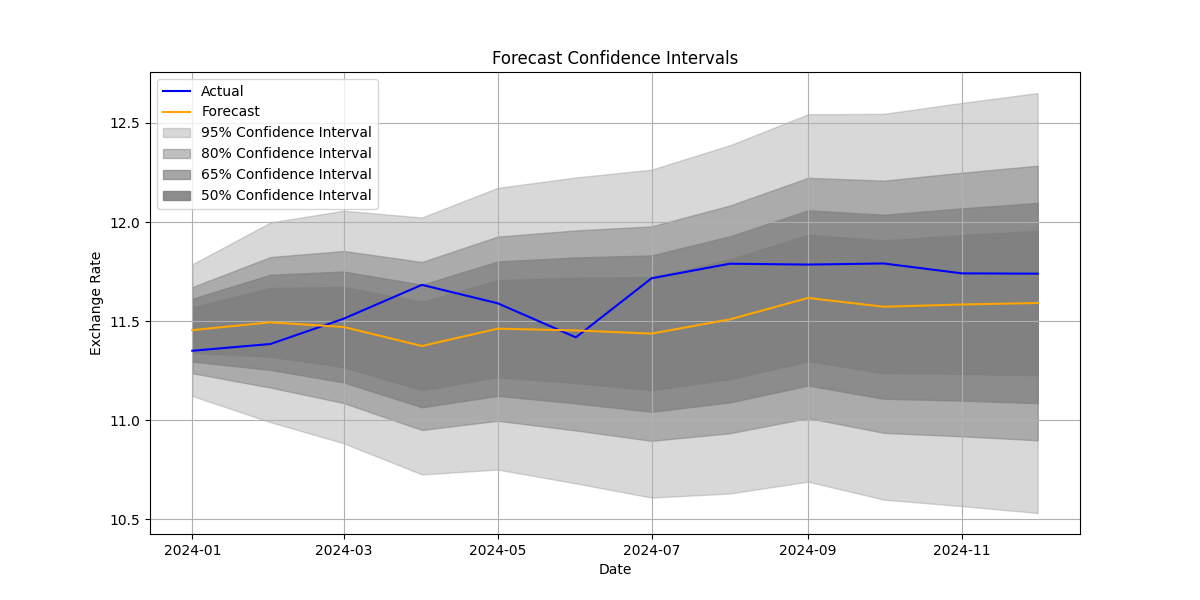
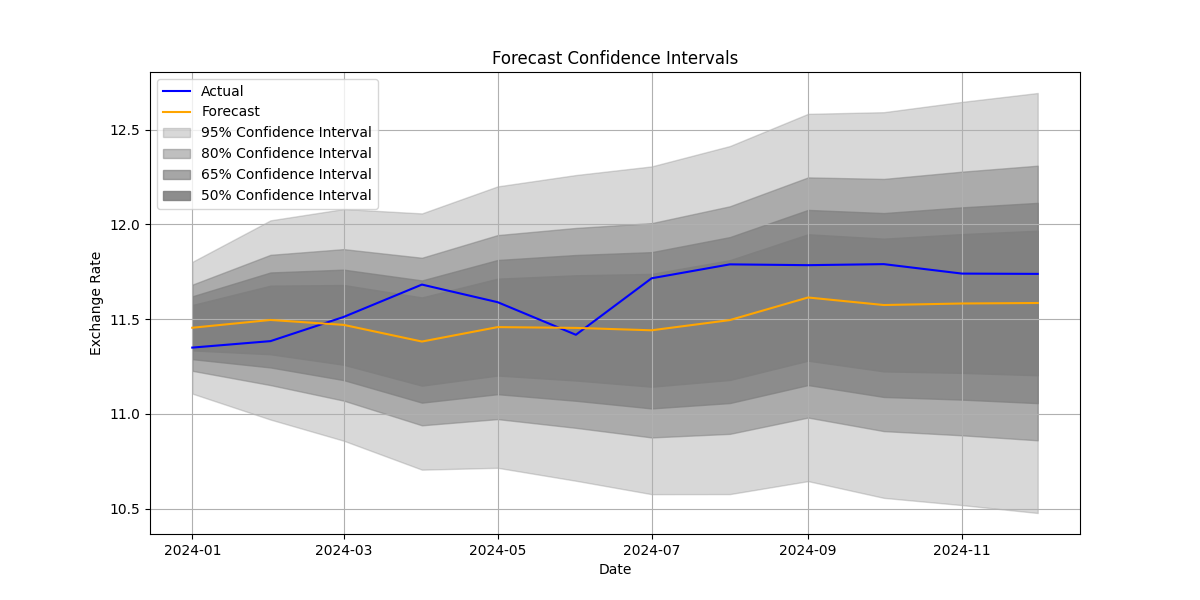
order and differencing determination added

diff --git a/arima_model.py b/arima_model.py
@@ -2,13 +2,13 @@ import pandas as pd
 import matplotlib.pyplot as plt
 from scipy import stats
 from statsmodels.tsa.arima.model import ARIMA
+from statsmodels.graphics.tsaplots import plot_acf, plot_pacf
 from statsmodels.tsa.stattools import adfuller
-from statsmodels.stats.diagnostic import acorr_ljungbox
+from statsmodels.stats.diagnostic import acorr_ljungbox, het_breuschpagan
 
 from historical_data import get_historical_data
 
 # Set parameters
-p, d, q = 3, 1, 1  # Define the order of the ARIMA model (p, d, q)
 rate = 'EUR'
 training_start = pd.Timestamp('2018-01-01')
 training_end = pd.Timestamp('2023-12-31')
@@ -22,14 +22,61 @@ df.to_csv("data\\input_data.csv")
 training_df = df.loc[:training_end]
 test_df = df.loc[training_end:]
 
+
+# Perform Differencing to estimate d
+fig, (ax1, ax2) = plt.subplots(2, figsize=(8, 4), sharex=True)
+ax1.plot(training_df['exchange_rate'].diff(), color='orange')
+ax1.set_title('1st Order Differencing')
+ax1.axes.xaxis.set_visible(False)
+ax2.plot(training_df['exchange_rate'].diff().diff(), color='green')
+ax2.set_title('2nd Order Differencing')
+plt.tight_layout()
+plt.savefig(f"results\\differencing.png")
+plt.show()
+d = 1
+
+# Estimate Best Values for p and q based on AIC, BIC, and HQIC
+lags = 12
+diff_series = training_df['exchange_rate'].diff()
+fig, axes = plt.subplots(1, 2, figsize=(8, 4))
+plot_acf(diff_series, lags=lags, ax=axes[0])
+axes[0].set_title('ACF of First Order Differenced Series')
+plot_pacf(diff_series, lags=lags, ax=axes[1])
+axes[1].set_title('PACF of First Order Differenced Series')
+plt.tight_layout()
+plt.savefig(f"results\\acp_pacf.png")
+plt.show()
+
+order = 3
+results = []
+for p in range(order):
+    for q in range(order):
+        model = ARIMA(training_df['exchange_rate'], exog=training_df.drop(columns=['exchange_rate']), order=(p, d, q))
+        result = model.fit()
+        results.append({
+               'p': p,
+               'd': d,
+               'q': q,
+               'AIC': result.aic,
+               'BIC': result.bic,
+               'HQIC': result.hqic
+           })
+results_df = pd.DataFrame(results)
+output_file.write("Estimate Best Values for p and q\n")
+output_file.write(str(results_df))
+output_file.write(f"\nBest model based on AIC:\n{results_df.loc[results_df['AIC'].idxmin()]}")
+output_file.write(f"\nBest model based on BIC:\n{results_df.loc[results_df['BIC'].idxmin()]}")
+output_file.write(f"\nBest model based on HQIC:\n{results_df.loc[results_df['HQIC'].idxmin()]}")
+p, q = 2, 0
+
 # Fit an ARIMA model
 model = ARIMA(training_df['exchange_rate'], exog=training_df.drop(columns=['exchange_rate']), order=(p, d, q))
 model_fit = model.fit()
-output_file.write(str(model_fit.summary()))
+output_file.write('\n'+str(model_fit.summary()))
 
 # Ljung-Box test
 residuals = model_fit.resid
-ljung_box_results = acorr_ljungbox(residuals, lags=[10], return_df=True)
+ljung_box_results = acorr_ljungbox(residuals, lags=[12], return_df=True)
 output_file.write("\nLjung-Box Test Results:")
 output_file.write(str(ljung_box_results))
 
@@ -45,6 +92,17 @@ shapiro_stat, shapiro_p_value = stats.shapiro(residuals)
 output_file.write("\n\nShapiro-Wilk Test:")
 output_file.write(f"\nStatistic: {shapiro_stat}")
 output_file.write(f"\nP-value: {shapiro_p_value}")
+
+# 4. Breusch-Pagan Test
+# bp_test = het_breuschpagan(residuals, model_fit.model.exog)
+# bp_results = pd.DataFrame({
+#     'Lagrange Multiplier Statistic': bp_test[0],
+#     'p-value': bp_test[1],
+#     'f-value': bp_test[2],
+#     'f-test p-value': bp_test[3]
+# }, index=['Breusch-Pagan Test'])
+# output_file.write("\n\nBreusch-Pagan Test Results:")
+# output_file.write('\n' + str(bp_results))
 
 # Diagnostic plots
 model_fit.plot_diagnostics(figsize=(12, 8))
